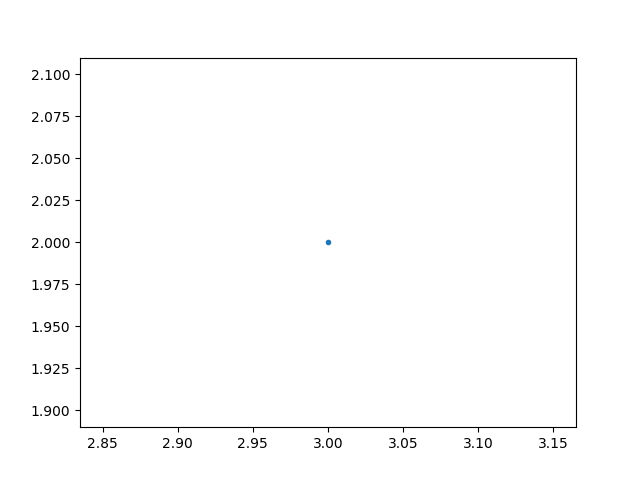
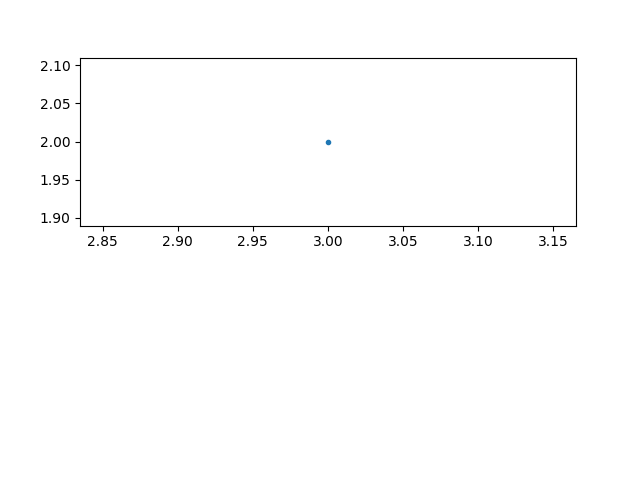
update

diff --git a/data-science-in-python/applied-plotting-charting-data-representation-in-python/assignment2.py b/data-science-in-python/applied-plotting-charting-data-representation-in-python/assignment2.py
@@ -1,0 +1,148 @@
+"""
+Assignment 2
+Before working on this assignment please read these instructions fully. In the submission area, you will notice that you can click the link to Preview the Grading for each step of the assignment. This is the criteria that will be used for peer grading. Please familiarize yourself with the criteria before beginning the assignment.
+
+An NOAA dataset has been stored in the file data/C2A2_data/BinnedCsvs_d400/fb441e62df2d58994928907a91895ec62c2c42e6cd075c2700843b89.csv. The data for this assignment comes from a subset of The National Centers for Environmental Information (NCEI) Daily Global Historical Climatology Network (GHCN-Daily). The GHCN-Daily is comprised of daily climate records from thousands of land surface stations across the globe.
+
+Each row in the assignment datafile corresponds to a single observation.
+
+The following variables are provided to you:
+
+id : station identification code
+date : date in YYYY-MM-DD format (e.g. 2012-01-24 = January 24, 2012)
+element : indicator of element type
+TMAX : Maximum temperature (tenths of degrees C)
+TMIN : Minimum temperature (tenths of degrees C)
+value : data value for element (tenths of degrees C)
+For this assignment, you must:
+
+Read the documentation and familiarize yourself with the dataset, then write some python code which returns a line graph of the record high and record low temperatures by day of the year over the period 2005-2014. The area between the record high and record low temperatures for each day should be shaded.
+Overlay a scatter of the 2015 data for any points (highs and lows) for which the ten year record (2005-2014) record high or record low was broken in 2015.
+Watch out for leap days (i.e. February 29th), it is reasonable to remove these points from the dataset for the purpose of this visualization.
+Make the visual nice! Leverage principles from the first module in this course when developing your solution. Consider issues such as legends, labels, and chart junk.
+
+The data you have been given is near Ann Arbor, Michigan, United States, and the stations the data comes from are shown on the map below.
+"""
+
+# pip3 install mplleaflet
+# data/C2A2_data/BinnedCsvs_d400/fb441e62df2d58994928907a91895ec62c2c42e6cd075c2700843b89.csv 에 파일이 저장되어 있어 로컬에서 에러 발생한다.
+# jupyter notebook 에서 실행해야 한다.
+import pandas as pd
+import mplleaflet
+from matplotlib.artist import Artist
+from matplotlib.figure import Figure
+from matplotlib.backends.backend_agg import FigureCanvasAgg
+import matplotlib.pyplot as plt
+import matplotlib as mpl
+import numpy as np
+
+
+# def leaflet_plot_stations(binsize, hashid):
+#     df = pd.read_csv('data/C2A2_data/BinSize_d{}.csv'.format(binsize))
+#     station_locations_by_hash = df[df['hash'] == hashid]
+#     lons = station_locations_by_hash['LONGITUDE'].tolist()
+#     lats = station_locations_by_hash['LATITUDE'].tolist()
+#     plt.figure(figsize=(8, 8))
+#     plt.scatter(lons, lats, c='r', alpha=0.7, s=200)
+#     return mplleaflet.display()
+
+
+# leaflet_plot_stations(
+#     400, 'fb441e62df2d58994928907a91895ec62c2c42e6cd075c2700843b89')
+
+import matplotlib.pyplot as plt
+import mplleaflet
+import numpy as np
+import pandas as pd
+
+binsize = 400
+hashid = 'fb441e62df2d58994928907a91895ec62c2c42e6cd075c2700843b89'
+
+# 2005~2015 기후 데이터 dataframe 으로 읽어 오기
+df = pd.read_csv(
+    'data/C2A2_data/BinnedCsvs_d{}/{}.csv'.format(binsize, hashid))
+df = df.sort_values(by=['ID', 'Date'])
+# (년, 월-일) 튜플로 구성
+tempdate = df['Date'].apply(lambda string: (string[:4], string[5:]))
+# (년), (월-일) 튜플로 분리해서 ,df 에 컬럼으로 추가
+df['year'], df['monthday'] = zip(*tempdate)
+
+# 2월 29 데이터는 제외
+df = df[df['monthday'] != '02-29']
+df['Data_Value'] *= 1/10
+# ID, Date 제거
+df.drop(['ID', 'Date'], axis=1, inplace=True)
+
+# 2015년 데이터
+df_2015 = df[df['year'] == '2015']
+# 2005~2014년 데이터
+df_2005to2014 = df[df['year'] != '2015']
+
+# 2015년 최고 기온(TMAX) 일별(monthday) 최고 기온값 집계
+df_max_2015 = df_2015[df_2015['Element'] == 'TMAX'].groupby(
+    'monthday').agg({'Data_Value': np.max})
+# 2015년 최저 기온(TMIN) 일별(monthday) 최저 기온값 집계
+df_min_2015 = df_2015[df_2015['Element'] == 'TMIN'].groupby(
+    'monthday').agg({'Data_Value': np.min})
+# 2005~2014년 최고 기온(TMAX) 일별(monthday) 최고 기온값 집계
+df_max_2005to2014 = df_2005to2014[df_2005to2014['Element'] == 'TMAX'].groupby(
+    'monthday').agg({'Data_Value': np.max})
+# 2005~2014년 최저 기온(TMIN) 일별(monthday) 최저 기온값 집계
+df_min_2005to2014 = df_2005to2014[df_2005to2014['Element'] == 'TMIN'].groupby(
+    'monthday').agg({'Data_Value': np.min})
+# print(df_max_2005to2014)
+# 2015 기온이 2005~2014(평년) 에 비해 낮은 날, 높은 날 인덱스 파악
+maxs = np.where(df_max_2015 > df_max_2005to2014)[0]
+mins = np.where(df_min_2015 < df_min_2005to2014)[0]
+# print(maxs)
+# print(mins)
+
+
+# 그래프 그리기
+# figure 크기 참고 https://matplotlib.org/api/_as_gen/matplotlib.pyplot.figure.html#matplotlib.pyplot.figure
+# plt.figure()
+# x축 레이블이 눈금이 많아 더 width 를 더 크게 한다.
+# figsize=[width, height]
+plt.figure(figsize=[10, 5])
+# 컬러값 참고
+# https://matplotlib.org/examples/color/named_colors.html
+# 평년의 높은기온(red), 낮은 기온(blue) 선그래프로 그리기, 선두께(50%)
+plt.plot(df_max_2005to2014.values, c='red', lw=0.5,
+         label="High Temperatures in 2005~2014")
+plt.plot(df_min_2005to2014.values, c='blue', lw=0.5,
+         label="Low Temperatures in 2005~2014")
+
+# 2015년 평긴 기온보다 높은날 낮은날을 df_min(max)_2015 에서 찾아
+# 산포 그래프로 그리기, circle(maker=0) 로 마크, 마커 크기는 20
+plt.scatter(maxs, df_max_2015.iloc[maxs], marker='o', s=20,
+            c='cyan', label='Broken High Temperatures in 2015')
+plt.scatter(mins, df_min_2015.iloc[mins], marker='o', s=20,
+            c='magenta', label='Broken Low Temperatures in 2015')
+
+# 평년 max,min 선 그래프 사이를 채운다.
+plt.fill_between(range(len(df_min_2005to2014)), df_min_2005to2014['Data_Value'],
+                 df_max_2005to2014['Data_Value'],
+                 facecolor='violet',
+                 alpha=0.2)
+
+# x,y 레이블, 타이틀 설정, x축 간격이 작아 레이블을 45도 기울인다.
+plt.xlabel('Month-Day')
+# print(len(df_min_2005to2014))
+# x 축 간격 15일 마다 눈금
+# xticks(데이터인덱스리스트, 데이터값리스트, 옵션들...)
+plt.xticks(range(0, len(df_min_2005to2014), 15),
+           df_min_2005to2014.index[range(0, len(df_min_2005to2014), 15)], rotation='45')
+plt.ylabel('Temperature in Celsius(°C)')
+plt.title('Temperature in Ann Arbor, Michigan, United States')
+# 범례 표시
+# 범례 위치 참고 https://matplotlib.org/3.1.1/api/_as_gen/matplotlib.pyplot.legend.html
+plt.legend(loc='best')
+# plt.legend(loc='lower right')
+
+ax = plt.gca()
+# ink junk(데이터 필요에 불편한 잉크들) 제거하기 위해서 위쪽, 오른쪽 테두리를 제거
+ax.spines['top'].set_visible(False)
+ax.spines['right'].set_visible(False)
+
+plt.show()
+# plt.savefig("assignment2.png")

diff --git a/data-science-in-python/applied-plotting-charting-data-representation-in-python/basic_plotting_with_matplotlib.py b/data-science-in-python/applied-plotting-charting-data-representation-in-python/basic_plotting_with_matplotlib.py
@@ -26,23 +26,28 @@ plt.show()
 # png 파일로 저장시
 # plt.savefig("test1.png")
 
+
 # figure 생성
 # First let's set the backend without using mpl.use() from the scripting layer
 # create a new figure
 fig = Figure()
-
 # fig 를 백엔드에 연결
 # associate fig with the backend
 canvas = FigureCanvasAgg(fig)
+# subplot: figure 에 들어 있는 plot 들
+# subplot 추가 한다.
 # add a subplot to the fig
-ax = fig.add_subplot(111)
+# ax = fig.add_subplot(111)
+# 2x1 에서 첫번째에 plot 추가한다.
+ax = fig.add_subplot(2,1,1)
 # plot the point (3,2)
 ax.plot(3, 2, '.')
-# 백엔드 그려진 내용을 test.png 파일로 출력
+# 백엔드 그려진 내용을 파일로 출력
 # save the figure to test.png
 # you can see this figure in your Jupyter workspace afterwards by going to
 # https://hub.coursera-notebooks.org/
 canvas.print_png('test.png')
+
 
 
 # 새 그래프 생성

diff --git a/data-science-in-python/applied-plotting-charting-data-representation-in-python/dejunkifying_a_plot.py b/data-science-in-python/applied-plotting-charting-data-representation-in-python/dejunkifying_a_plot.py
@@ -20,8 +20,12 @@ plt.figure()
 # stackoverflow 프로그래밍 인기 데이터로 막대 그래프 그리기
 languages = ['Python', 'SQL', 'Java', 'C++', 'JavaScript']
 pos = np.arange(len(languages))
+# print("pos:", pos)
 popularity = [56, 39, 34, 34, 29]
 plt.bar(pos, popularity, align='center')
+# x축 간격 설정
+# pos => [0,1,2,3,4] 위치 설정
+# languages = ['Python', 'SQL', 'Java', 'C++', 'JavaScript'] 위치에 들어갈 값
 plt.xticks(pos, languages)
 plt.ylabel('% Popularity')
 plt.title('Top 5 Languages for Math & Data \nby % Popularity on Stack Overflow')

diff --git a/data-science-in-python/applied-plotting-charting-data-representation-in-python/scatterplots.py b/data-science-in-python/applied-plotting-charting-data-representation-in-python/scatterplots.py
@@ -91,6 +91,7 @@ plt.ylabel('The grade of the student')
 plt.title('Relationship between ball kicking and grades')
 
 # 범례 추가
+# 범례 위치 참고 https://matplotlib.org/3.1.1/api/_as_gen/matplotlib.pyplot.legend.html
 # add a legend (uses the labels from plt.scatter)
 # plt.legend()
 # 범베를 그래프의 오른쪽 아래 부분에 표시한다.

diff --git a/data-science-in-python/applied-plotting-charting-data-representation-in-python/lineplots.py b/data-science-in-python/applied-plotting-charting-data-representation-in-python/lineplots.py
@@ -34,6 +34,7 @@ plt.xlabel('Some data')
 plt.ylabel('Some other data')
 plt.title('A title')
 # 범례 추가
+# 범례 위치 참고 https://matplotlib.org/3.1.1/api/_as_gen/matplotlib.pyplot.legend.html
 # add a legend with legend entries (because we didn't have labels when we plotted the data series)
 plt.legend(['Baseline', 'Competition', 'Us'])
 
